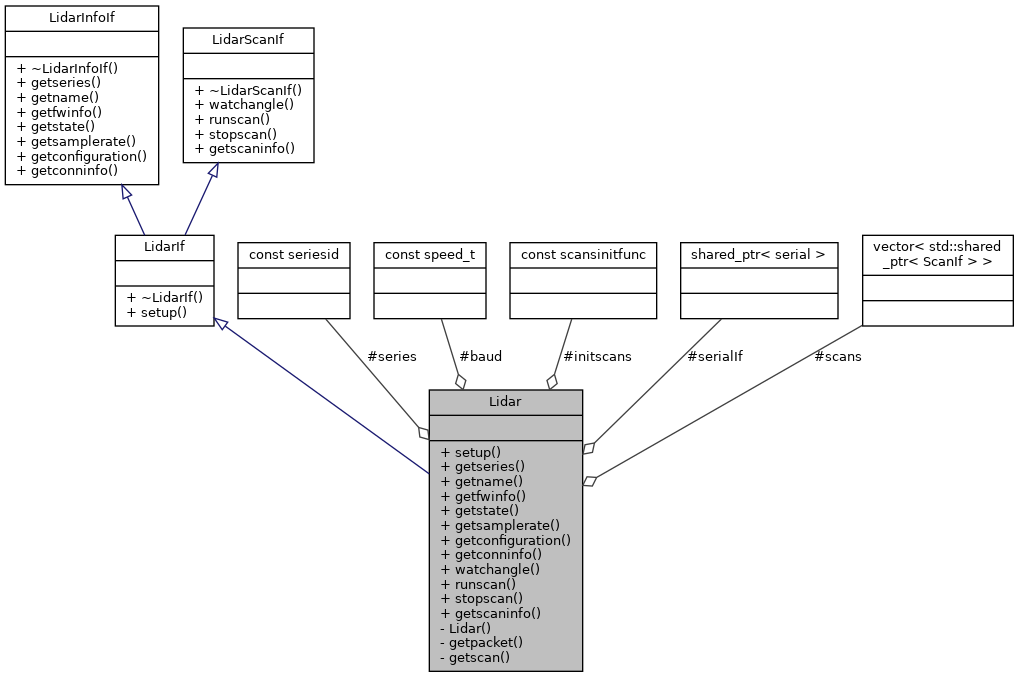
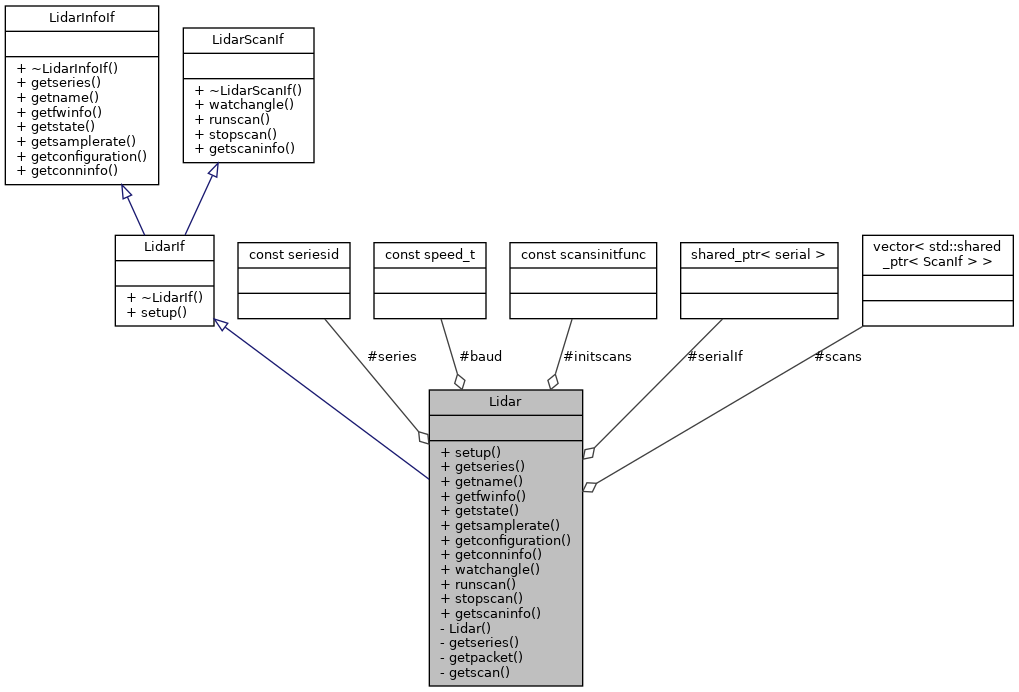
Minor interface update (#2)

diff --git a/src/lidar.cpp b/src/lidar.cpp
@@ -25,38 +25,9 @@ bool Lidar::setup(const std::string& device)
     return false;
 }
 
-seriesid Lidar::getseries(std::shared_ptr<serial> serialIf)
+seriesid Lidar::getseries()
 {
-    seriesid series{seriesid::unknown};
-    serialIf->write({SCANSTARTFLAG, SCANGETINFOCMD});
-    std::vector<uint8_t> resp;
-    if (serialIf->read(resp, 27))
-    {
-        uint8_t modelid = resp[7];
-        uint8_t majormodelid = (modelid >> 4) & 0x0F;
-
-        if (majormodelid >= (uint8_t)seriesid::mmodel)
-        {
-            series = seriesid::mmodel;
-        }
-        else if (majormodelid >= (uint8_t)seriesid::tmodel)
-        {
-            series = seriesid::tmodel;
-        }
-        else if (majormodelid >= (uint8_t)seriesid::smodel)
-        {
-            series = seriesid::smodel;
-        }
-        else if (majormodelid >= (uint8_t)seriesid::cmodel)
-        {
-            series = seriesid::cmodel;
-        }
-        else
-        {
-            series = seriesid::amodel;
-        }
-    }
-    return series;
+    getseries(serialIf);
 }
 
 std::string Lidar::getname()
@@ -241,6 +212,40 @@ std::pair<std::string, std::string> Lidar::getscaninfo(scan_t type) const
 Lidar::Lidar(seriesid series, speed_t baud, scansinitfunc&& initscans) :
     series{series}, baud{baud}, initscans{std::move(initscans)}
 {}
+
+seriesid Lidar::getseries(std::shared_ptr<serial> serialIf)
+{
+    seriesid series{seriesid::unknown};
+    serialIf->write({SCANSTARTFLAG, SCANGETINFOCMD});
+    std::vector<uint8_t> resp;
+    if (serialIf->read(resp, 27))
+    {
+        uint8_t modelid = resp[7];
+        uint8_t majormodelid = (modelid >> 4) & 0x0F;
+
+        if (majormodelid >= (uint8_t)seriesid::mmodel)
+        {
+            series = seriesid::mmodel;
+        }
+        else if (majormodelid >= (uint8_t)seriesid::tmodel)
+        {
+            series = seriesid::tmodel;
+        }
+        else if (majormodelid >= (uint8_t)seriesid::smodel)
+        {
+            series = seriesid::smodel;
+        }
+        else if (majormodelid >= (uint8_t)seriesid::cmodel)
+        {
+            series = seriesid::cmodel;
+        }
+        else
+        {
+            series = seriesid::amodel;
+        }
+    }
+    return series;
+}
 
 void Lidar::getpacket(std::vector<uint8_t>&& req, std::vector<uint8_t>& resp,
                       uint8_t size, bool chsum = false)

diff --git a/inc/lidar.hpp b/inc/lidar.hpp
@@ -7,7 +7,7 @@ class Lidar : public LidarIf
   public:
     bool setup(const std::string&) override;
 
-    seriesid getseries(std::shared_ptr<serial>) override;
+    seriesid getseries() override;
     std::string getname() override;
     std::tuple<std::string, std::string, std::string, std::string>
         getfwinfo() override;
@@ -34,6 +34,7 @@ class Lidar : public LidarIf
     friend class LidarFactory;
     Lidar(seriesid, speed_t, scansinitfunc&&);
 
+    seriesid getseries(std::shared_ptr<serial>);
     void getpacket(std::vector<uint8_t>&&, std::vector<uint8_t>&, uint8_t,
                    bool);
     std::shared_ptr<ScanIf> getscan(scan_t) const;

diff --git a/inc/interfaces/lidar.hpp b/inc/interfaces/lidar.hpp
@@ -44,7 +44,7 @@ class LidarInfoIf
     virtual ~LidarInfoIf()
     {}
 
-    virtual seriesid getseries(std::shared_ptr<serial>) = 0;
+    virtual seriesid getseries() = 0;
     virtual std::string getname() = 0;
     virtual std::tuple<std::string, std::string, std::string, std::string>
         getfwinfo() = 0;
